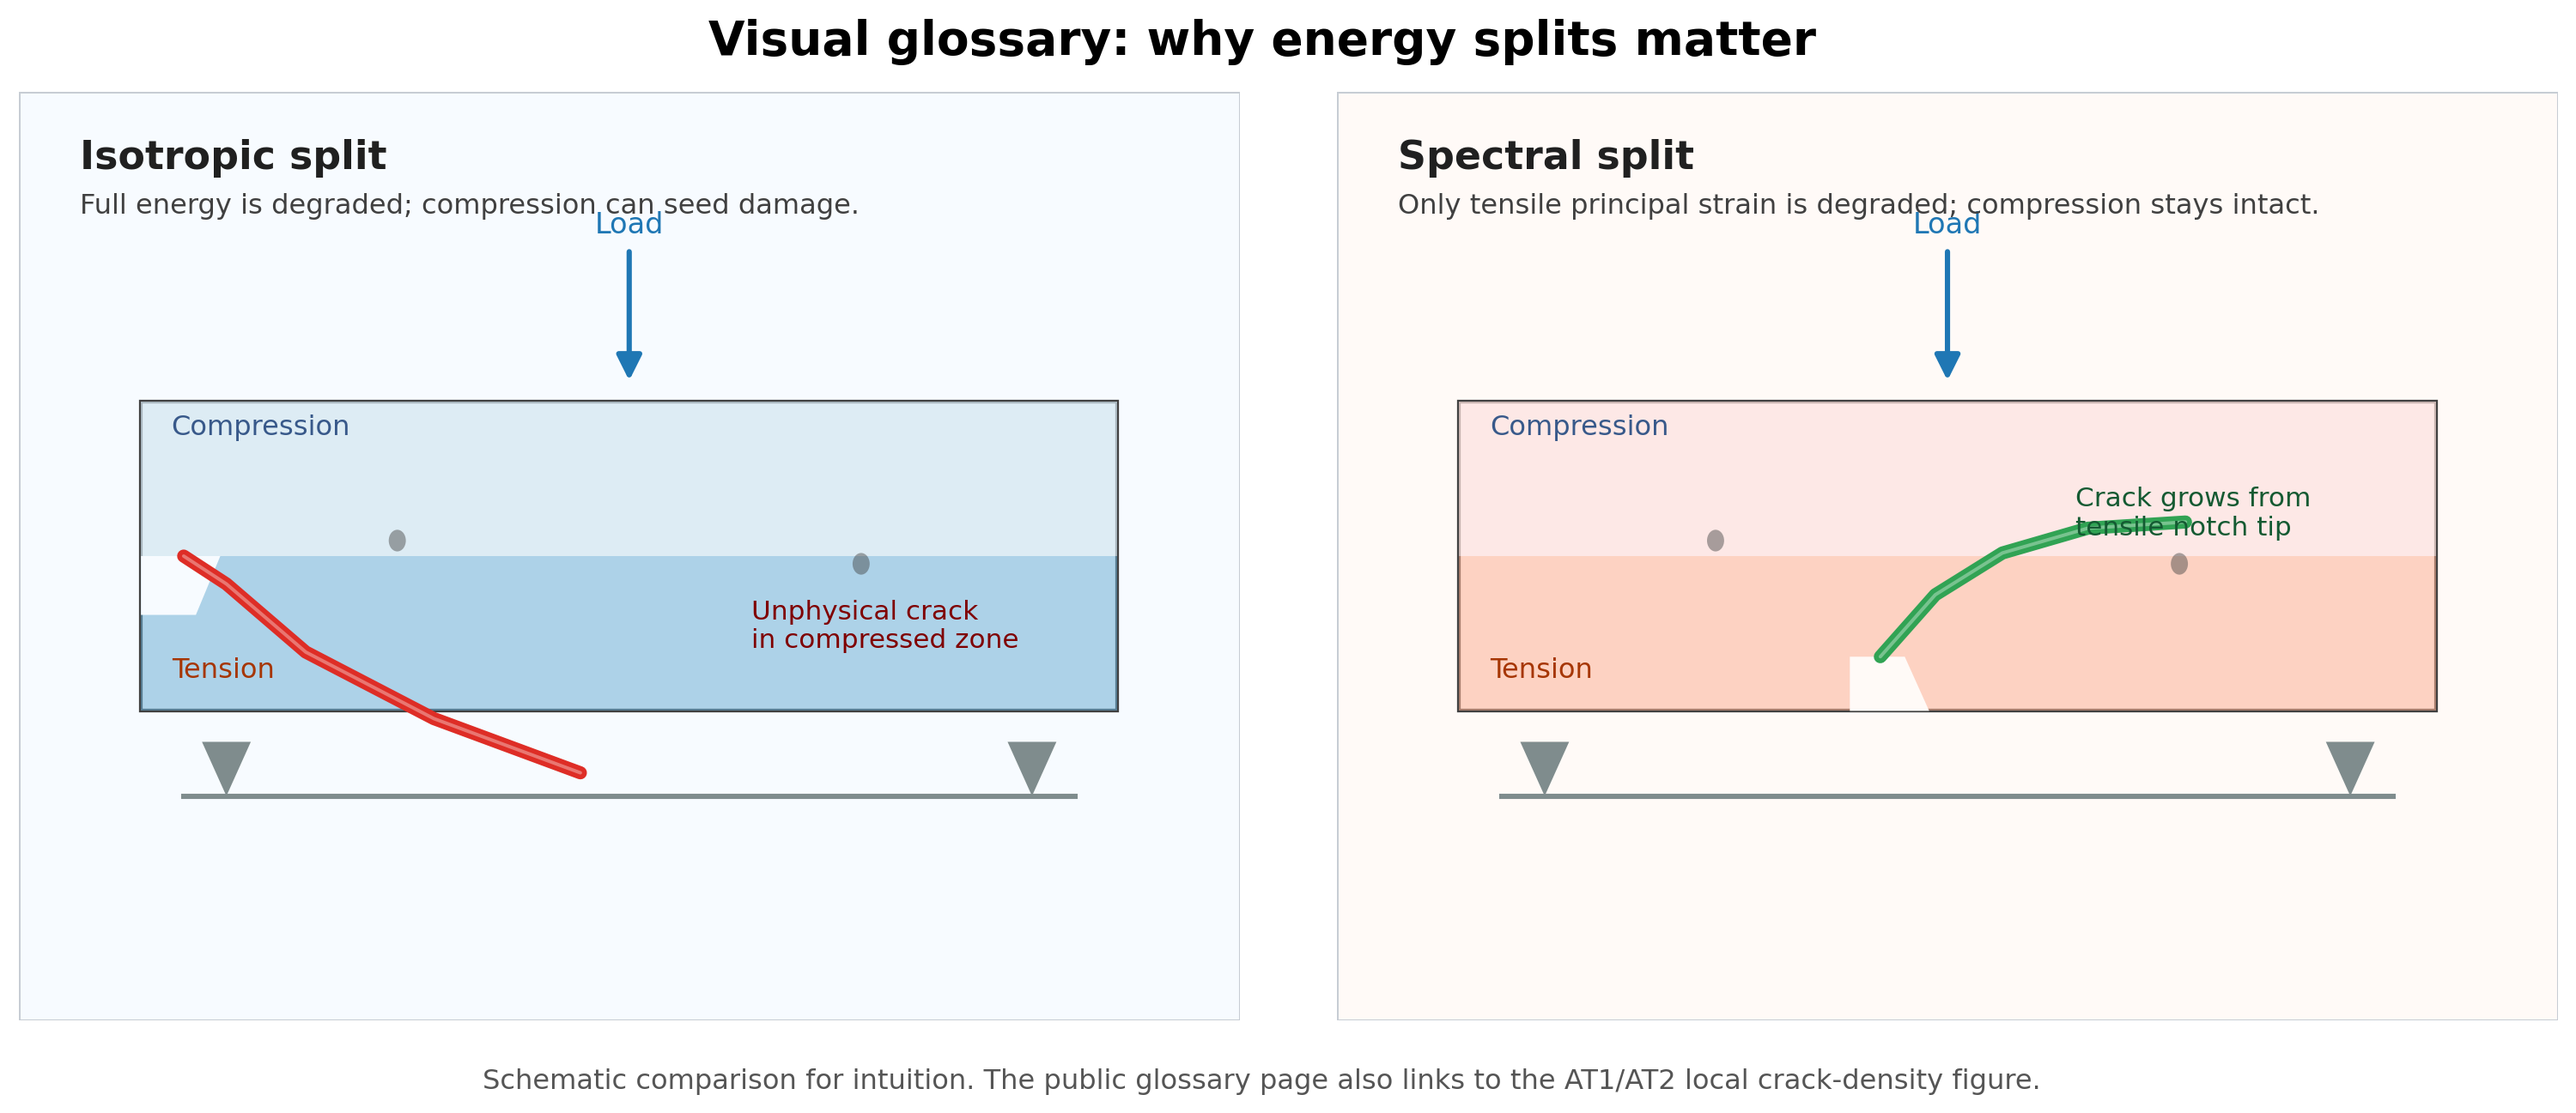
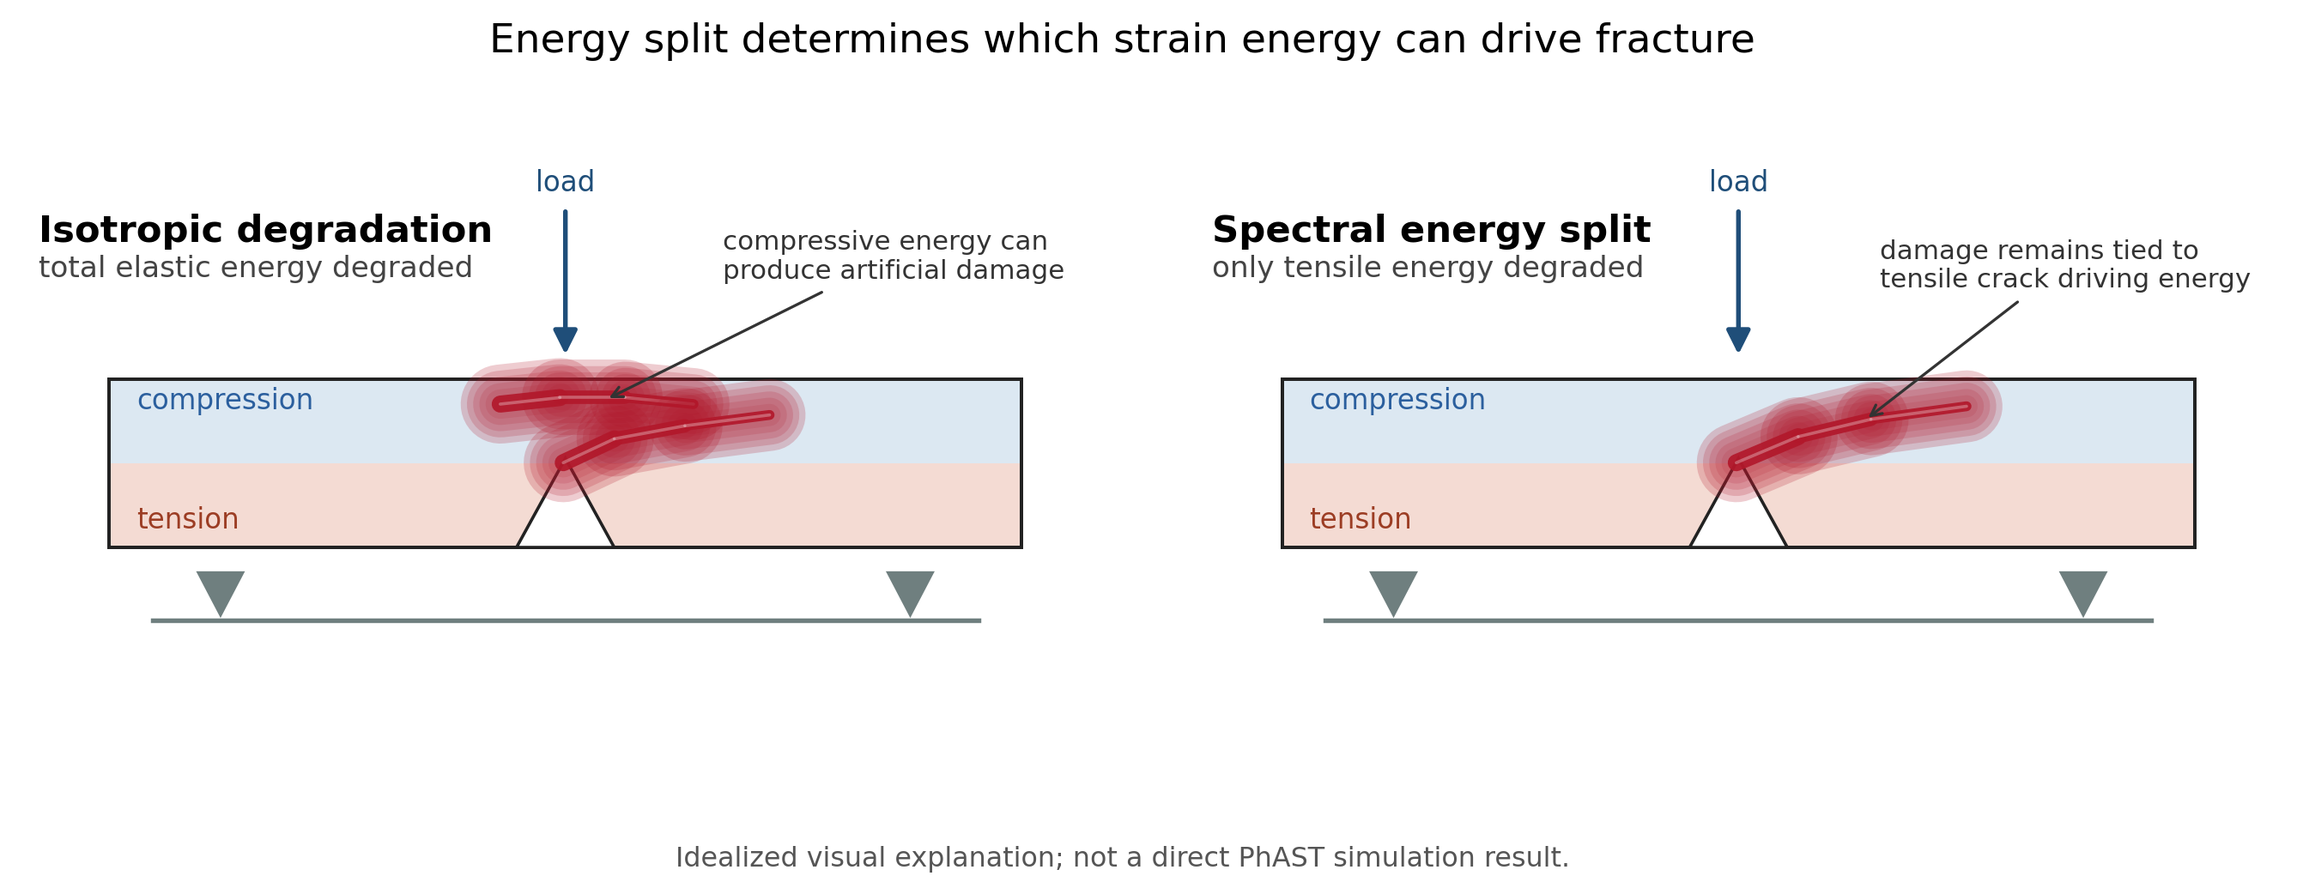
docs: refine visual glossary energy split figure

diff --git a/docs/tutorial/02_visual_glossary.md b/docs/tutorial/02_visual_glossary.md
@@ -23,11 +23,14 @@ where only the tensile part of the strain energy is degraded and the crack
 follows the tensile notch tip.
 
 ```{figure} ../_static/visual_glossary_energy_split.png
-:alt: Schematic comparison of isotropic and spectral energy splits
+:alt: Schematic comparison of isotropic and spectral energy splits under bending
 :width: 100%
 
-Energy-split schematic used to distinguish isotropic degradation from a
-spectral split. The figure is illustrative rather than a simulation output.
+Conceptual comparison of phase-field damage under bending for two elastic
+energy formulations. Isotropic degradation lets the total strain energy drive
+damage and can therefore accumulate damage in a compressive zone. A spectral
+split restricts the driving force to the tensile strain contribution. This
+diagram is an idealized explanation and is not a direct PhAST simulation result.
 ```
 
 ## AT1 and AT2 at a glance
